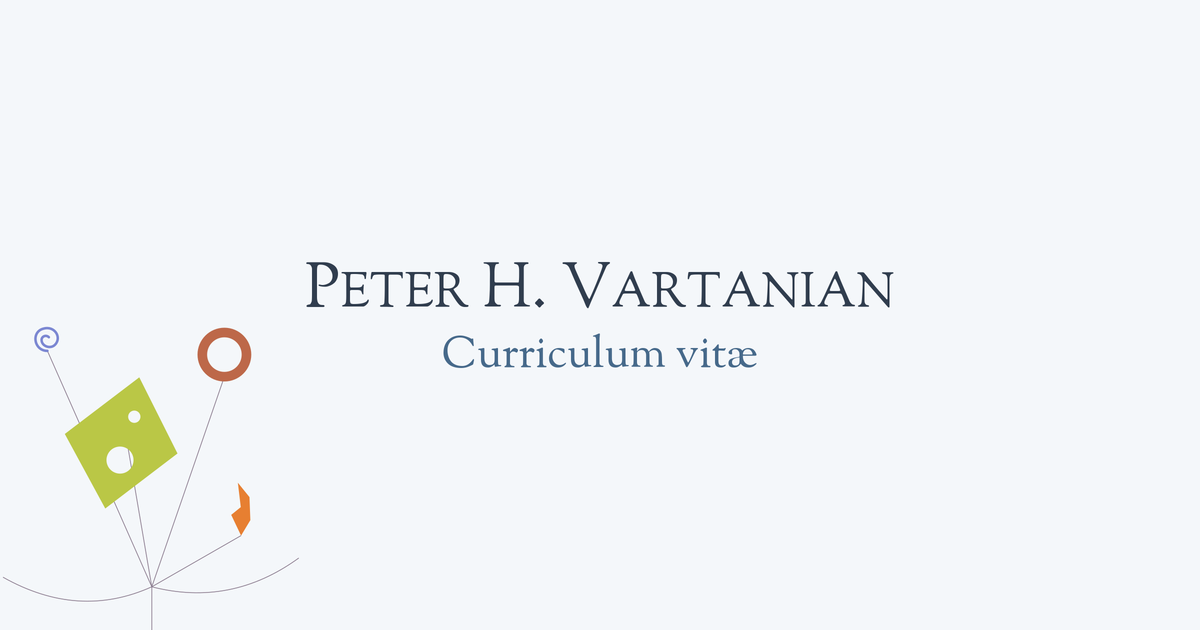
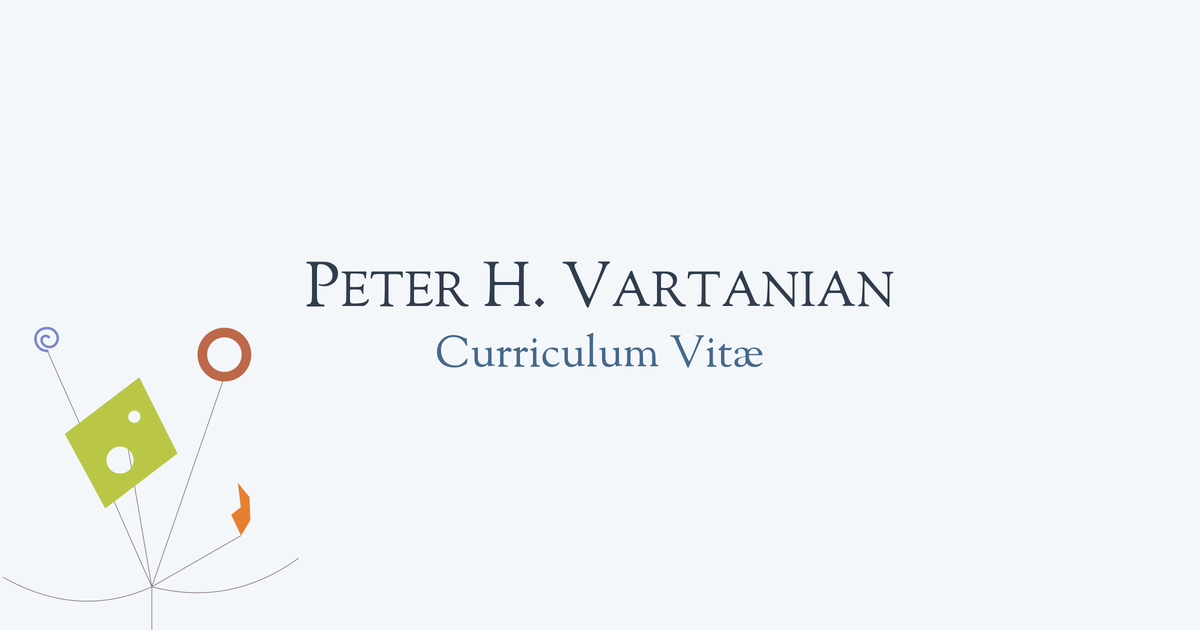
Capitalize Curriculum Vitæ across the site and CV download

diff --git a/cv/index.html b/cv/index.html
@@ -11,7 +11,7 @@
   <meta property="og:description" content="Education, experience, languages, and research methods.">
   <meta property="og:type" content="website">
   <meta property="og:url" content="https://petervartanian.xyz/cv/">
-  <meta property="og:image" content="https://petervartanian.xyz/assets/img/social-cv.png?v=a2e808fbbe81">
+  <meta property="og:image" content="https://petervartanian.xyz/assets/img/social-cv.png?v=c3f572d0ec8b">
   <meta property="og:image:width" content="1200">
   <meta property="og:image:height" content="630">
   <meta property="og:image:type" content="image/png">
@@ -19,7 +19,7 @@
   <meta name="twitter:card" content="summary_large_image">
   <meta name="twitter:title" content="CV — Peter H. Vartanian">
   <meta name="twitter:description" content="Education, experience, languages, and research methods.">
-  <meta name="twitter:image" content="https://petervartanian.xyz/assets/img/social-cv.png?v=a2e808fbbe81">
+  <meta name="twitter:image" content="https://petervartanian.xyz/assets/img/social-cv.png?v=c3f572d0ec8b">
   <meta name="twitter:image:alt" content="Peter H. Vartanian — CV, with a composition of colored mobile shapes">
   <link rel="icon" href="/favicon.ico" sizes="any">
   <link rel="alternate" type="application/atom+xml" title="Writing" href="/feed.xml">
@@ -41,7 +41,7 @@
 <span class="nav-divider" aria-hidden="true"></span>
 <a href="/contact/">Contact</a></nav>
     </header>
-    <main id="main"><div class="title-line"><h1>Curriculum vitæ</h1><a class="download-button" href="/cv/peter-vartanian-cv.md" download="peter-vartanian-cv.md">Download .MD</a></div>
+    <main id="main"><div class="title-line"><h1>Curriculum Vitæ</h1><a class="download-button" href="/cv/peter-vartanian-cv.md" download="peter-vartanian-cv.md">Download .MD</a></div>
 <section class="cv-section" id="experience"><h2><span class="section-number">I.</span> <strong class="section-text">Experience</strong></h2><h3>Current</h3><table class="cv-table experience-table" aria-label="Current experience and dates"><tbody><tr><th scope="row"><span class="primary-contribution">MIT AI Risk Initiative &amp; Arcola AI</span><sup><a class="note-badge" href="#experience-note-1" aria-label="Experience note i">i</a></sup></th><td><span class="date-part">Jun. 2026 –</span> <span class="date-part">Present</span></td></tr>
 </tbody></table><h3>Previous</h3><table class="cv-table experience-table" aria-label="Previous experience and dates"><tbody><tr><th scope="row"><span class="primary-contribution">AI Risk Explorer</span><sup><a class="note-badge" href="#experience-note-2" aria-label="Experience note ii">ii</a></sup></th><td><span class="date-part">Feb. 2026 –</span> <span class="date-part">Jun. 2026</span></td></tr>
 <tr><th scope="row"><span class="primary-contribution">Family Office</span><sup><a class="note-badge" href="#experience-note-3" aria-label="Experience note iii">iii</a></sup></th><td><span class="date-part">Sep. 2025 –</span> <span class="date-part">Jun. 2026</span></td></tr>

diff --git a/build.py b/build.py
@@ -231,7 +231,7 @@ for section in cv['sections']:
     else:
         cv_sections += f'<section class="cv-section" id="{anchor}"><h2><span class="section-number">{major[label]}.</span> <strong class="section-text">{e(label)}</strong></h2>{content}</section>\n'
 cv_sections += '</section>'
-about = f'''<div class="title-line"><h1>Curriculum vitæ</h1><a class="download-button" href="/cv/peter-vartanian-cv.md" download="peter-vartanian-cv.md">Download .MD</a></div>
+about = f'''<div class="title-line"><h1>Curriculum Vitæ</h1><a class="download-button" href="/cv/peter-vartanian-cv.md" download="peter-vartanian-cv.md">Download .MD</a></div>
 <section class="cv-section" id="experience"><h2><span class="section-number">I.</span> <strong class="section-text">Experience</strong></h2>{experience}{experience_notes}</section>
 {cv_sections}'''
 page('cv', 'CV', 'Education, experience, languages, and research methods.', about, '/cv/')

diff --git a/validate.py b/validate.py
@@ -62,7 +62,7 @@ for work in data['writings']:
     clean=re.sub(r'[†‡§]','',work['credit']).strip()
     check(all(part.strip() in archive for part in clean.split(' · ')),f'Missing authorship or date: {work["title"]}')
 cv=''.join(pages['cv/index.html'].text)
-check('Curriculum vitæ' in cv, 'CV title must use vitæ')
+check('Curriculum Vitæ' in cv, 'CV title must use vitæ')
 writing_html=(ROOT/'portfolio/index.html').read_text()
 check('<details id="publication-notes"' not in writing_html and 'note-box' not in writing_html and all(f'<p id="publication-note-{i}">' in writing_html for i in [1, 2, 4]), 'Notes must remain visible together without separate boxes')
 check('Peter’s Memos' in archive, 'Missing memo section')

diff --git a/scripts/preview_cards.py b/scripts/preview_cards.py
@@ -32,7 +32,7 @@ for key,(paper,ink,accent) in palettes.items():
  name_layer=name_layer.crop(name_layer.getbbox())
  layers=[name_layer]
  if key!='home':
-  label={'writing':'Writing','cv':'Curriculum vitæ','contact':'Contact'}[key]
+  label={'writing':'Writing','cv':'Curriculum Vitæ','contact':'Contact'}[key]
   label_layer=Image.new('RGBA',(1200*S,120*S))
   ImageDraw.Draw(label_layer).text((0,75*S),label,font=ImageFont.truetype(fontpath,44*S),fill=accent,anchor='ls')
   layers.append(label_layer.crop(label_layer.getbbox()))

diff --git a/cv_markdown.py b/cv_markdown.py
@@ -33,4 +33,4 @@ def export_cv(html):
     text = inline(html)
     text = re.sub(r'\n[ \t]+', '\n', text)
     text = re.sub(r'\n{3,}', '\n\n', text)
-    return text.replace('# Curriculum vitæ', '# Peter H. Vartanian\n\nCurriculum vitæ\n\nhttps://petervartanian.xyz/cv/', 1).strip() + '\n'
+    return text.replace('# Curriculum Vitæ', '# Peter H. Vartanian\n\nCurriculum Vitæ\n\nhttps://petervartanian.xyz/cv/', 1).strip() + '\n'

diff --git a/cv/peter-vartanian-cv.md b/cv/peter-vartanian-cv.md
@@ -1,6 +1,6 @@
 # Peter H. Vartanian
 
-Curriculum vitæ
+Curriculum Vitæ
 
 https://petervartanian.xyz/cv/
 
